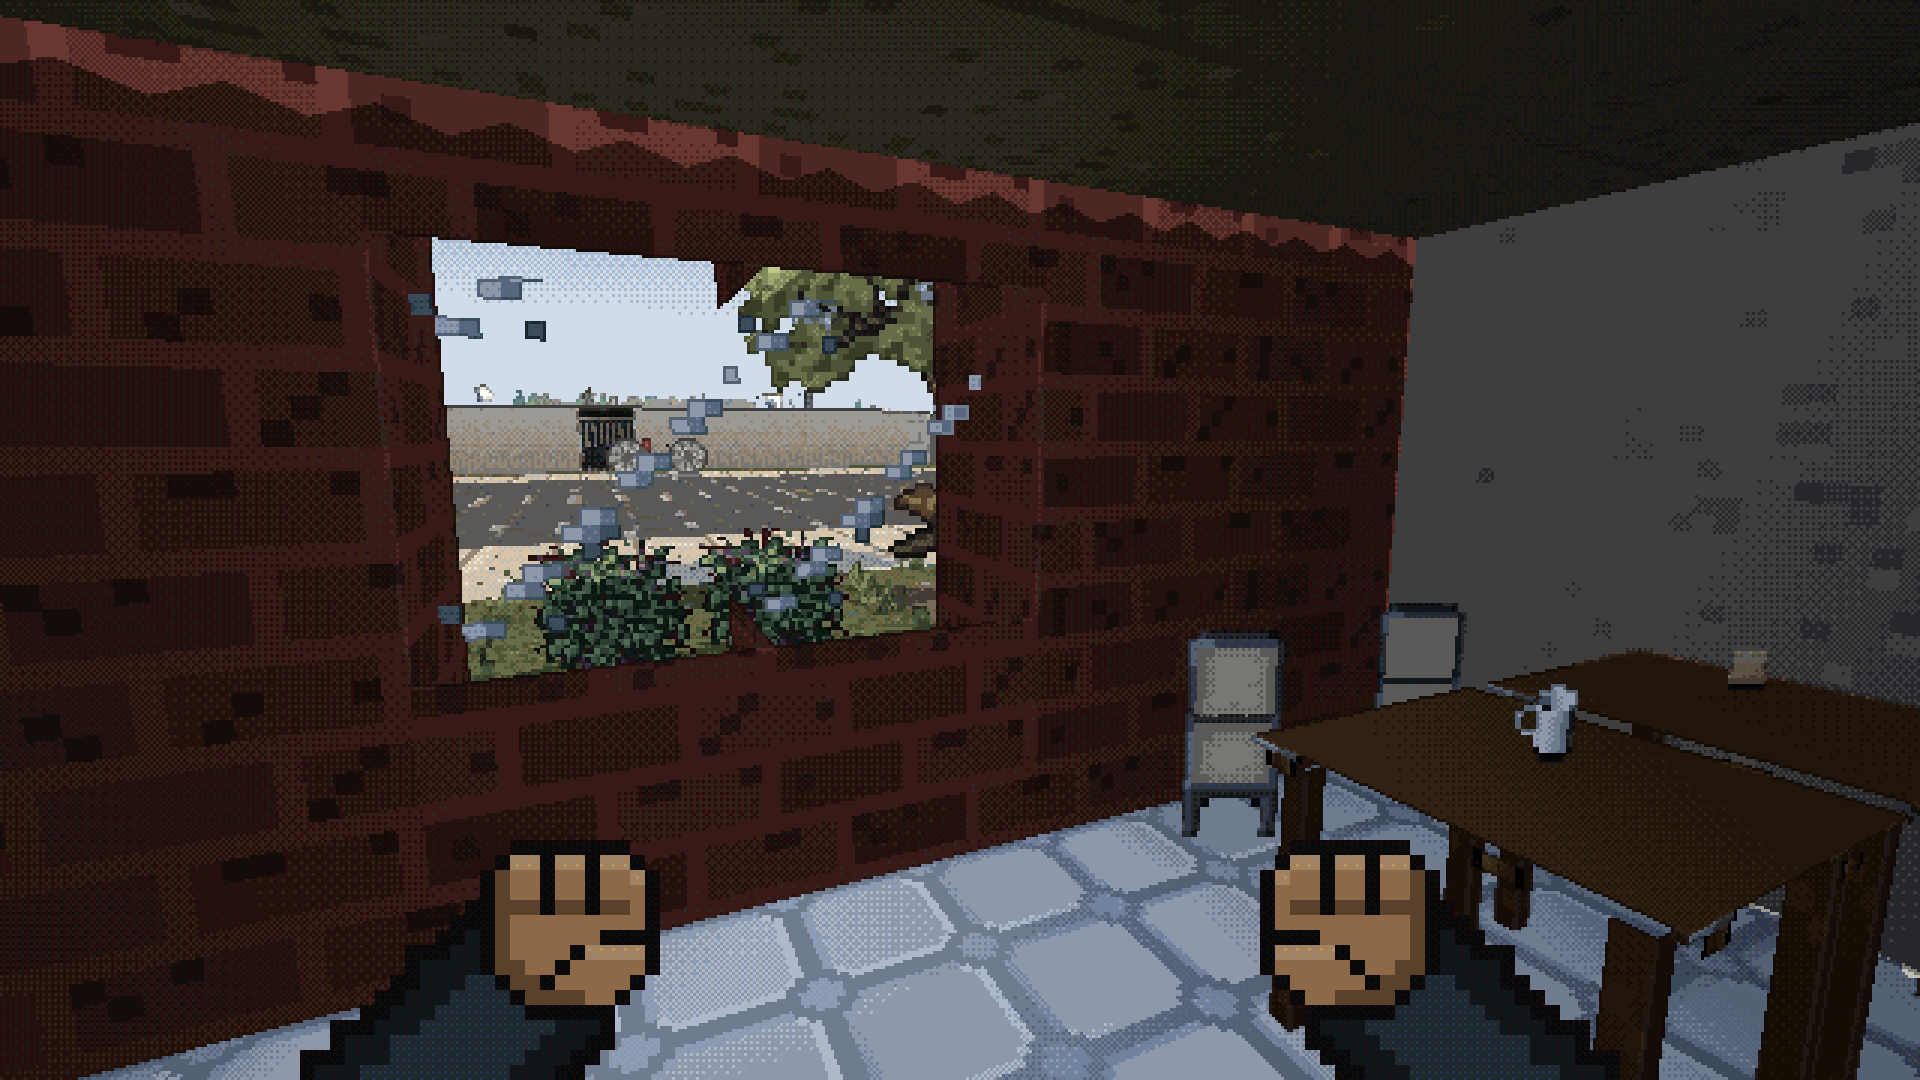
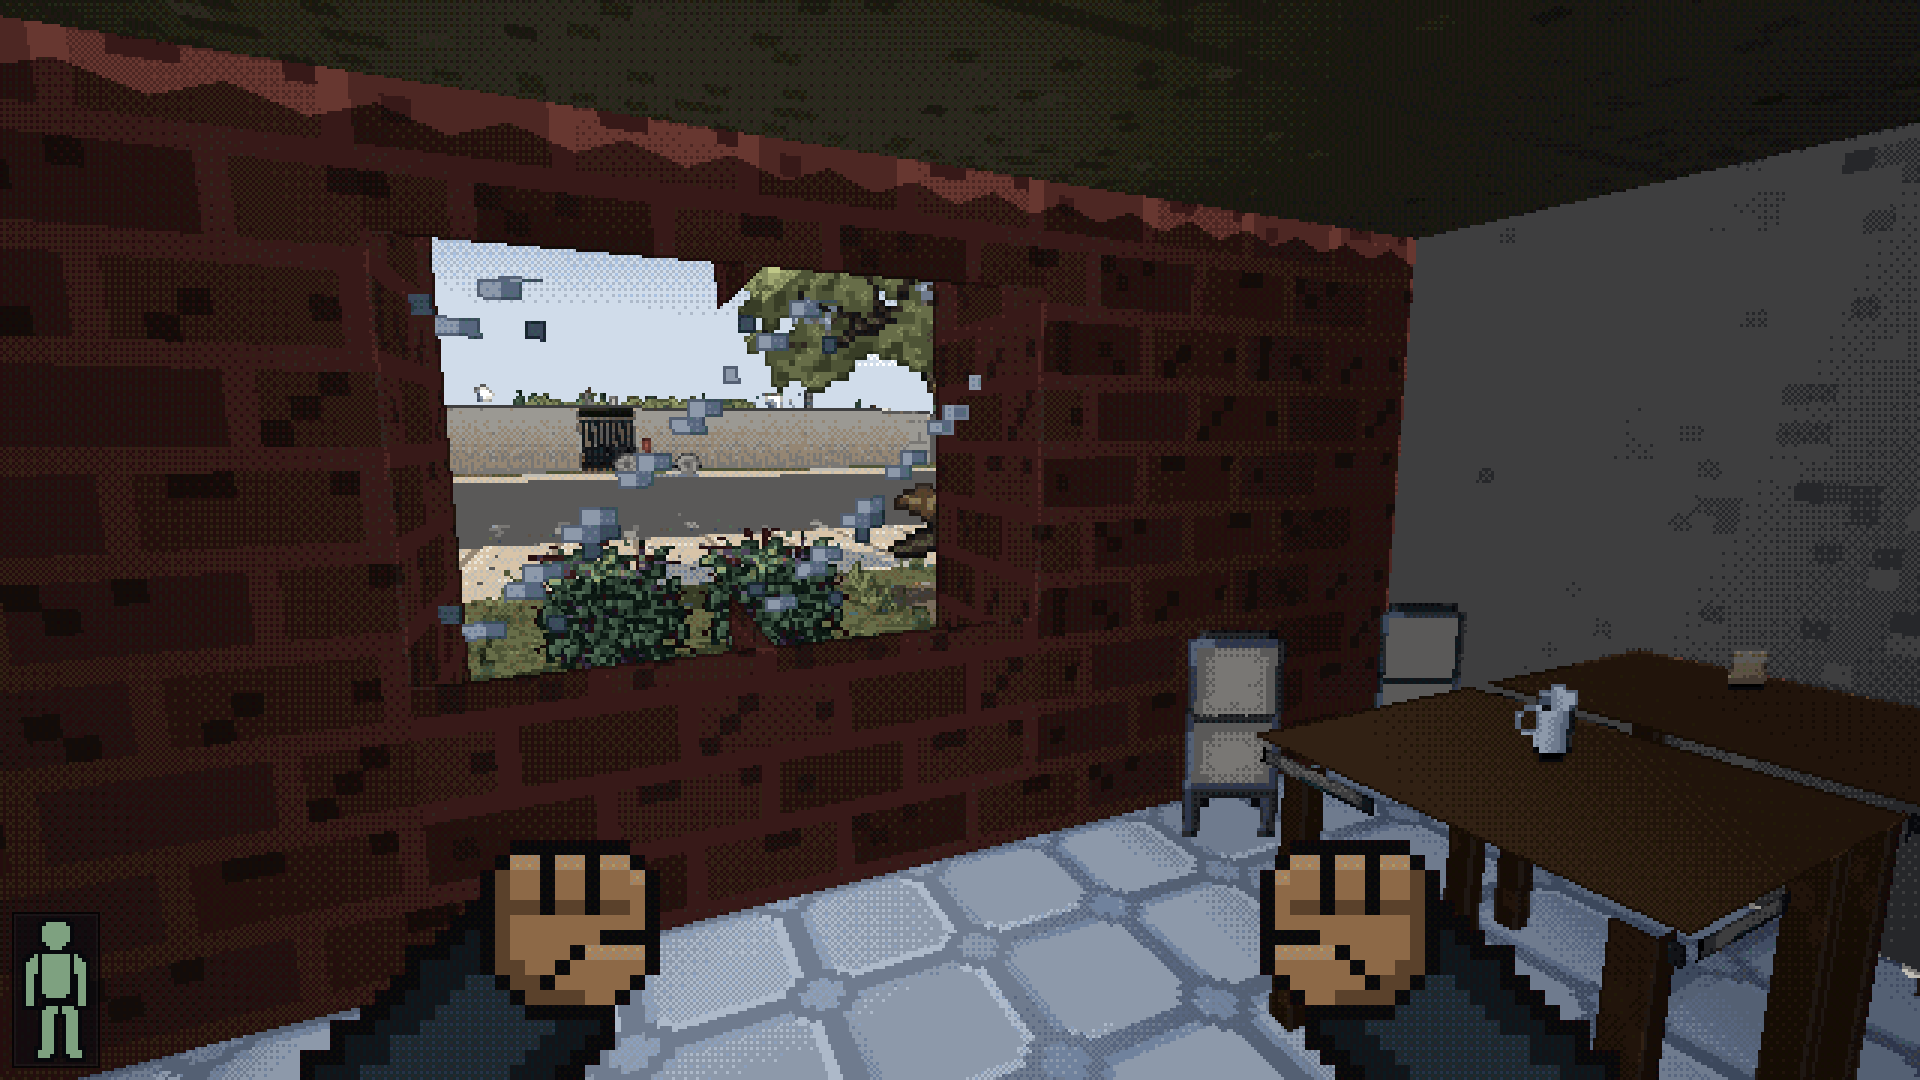
Readability: docs (READABILITY.md, LOOKS.md), before/after shots, regenerated look shots

diff --git a/src/render/atmosphere.ts b/src/render/atmosphere.ts
@@ -5,9 +5,10 @@
 // into grey haze and the far end of a street was unreadable. The presets here keep a depth
 // cue but put the contrast back:
 //
-//   clear   (default) light, sky-coloured aerial perspective; the draw-distance edge fades
-//           into the exact sky colour behind it over the last ~20% of the range, so
-//           silhouettes stay crisp until the very end and there is no fog wall
+//   clear   (default) light, sky-coloured aerial perspective; from 60% of the draw distance
+//           things fade only partly (25%) toward the exact sky colour behind them, then the
+//           far ground ring and skyline (skyline.ts) carry the fade on to the horizon, so
+//           silhouettes stay crisp and there is no fog wall (docs/READABILITY.md)
 //   light   more haze (planes of depth separate more), still sky-coloured and no wall
 //   legacy  the v2 behaviour (grey fog from 35% of the range + heavy haze), for comparison
 //

diff --git a/docs/READABILITY.md b/docs/READABILITY.md
@@ -1,0 +1,105 @@
+# Distance readability (wave 3)
+
+Feedback: "many of [the looks] are too hard to actually see far distance". In
+`docs/screenshots/looks/full_street.png` (v2) everything past ~30 m dissolved into pale haze, the
+sky around the sun was washed out and the far end of the street was unreadable.
+
+## What was killing distance, per look
+
+| cause | looks | fix |
+| --- | --- | --- |
+| Fog of war started at **35 %** of the draw distance (42 m) and was opaque grey at 120 m, fading into a fog colour that did not match the sky behind it (a grey wall in front of a blue or orange horizon) | all | sky-matched fade (below), starting at 60 % and only partial at the draw distance |
+| Aerial perspective mixed up to 45 % pale haze + 40 % desaturation within 60 m | crisp, full | capped (`hazeMax` 0.42 x look strength 0.6), longer e-fold (90 m), toward the sky colour along the view ray |
+| No ground beyond the drawn chunks: the world ended in a band of sky below the horizon | all | far ground ring from the overmap (`skyline.ts`), faded by its true distance |
+| Sun glow term applied at full strength at noon + a 2.0 HDR sun disc feeding bloom: a third of the sky washed to white-pink around the sun | all (bloom: crisp, full) | glow only strong when the sun is low; disc 1.6 (small halo) |
+| Rain fell from a clear blue sky with the sun blazing and hard shadows | all | overcast from the game weather (BN `light_modifier`, `sight_penalty`) |
+| Past the mip clamp (lod 3), distant roads/lawns were lod-3 texels aliasing into speckle | all | fade to the tile's average colour past lod 3 (`materials.ts` WORLD_MAP) |
+| Tree-crown sway of < 1 px at distance made far crowns flicker | voxel, full | sway fades out from 14 to 30 m |
+
+Monsters beyond the 60-tile reality bubble are dormant and **not drawn at all**
+(`monai.ts ACTIVE_RADIUS`); the far view spawns its test zombies at 15/28/42/58 m for that
+reason. Drawing dormant monsters as distant figures is the character agent's call.
+
+## The model (`src/render/atmosphere.ts`, `post.ts atmosphere()`)
+
+* **Aerial perspective**: `a = look.atmosphere * hazeMax * (1 - exp(-d / hazeDist))`, part
+  desaturation, then a mix toward `skyGradient(viewRay)` (the exact colour of the sky dome behind
+  the pixel, `sky.ts SKY_GRADIENT`, so warm toward a low sun, blue elsewhere). Capped, so a dark
+  shape on the road at 50 m keeps its contrast.
+* **Distance fade**: reaches `edgeLevel` (0.25) at the draw distance, then keeps going over the
+  far ground ring and skyline (true distance written to the normal target's red channel, since
+  the impostors are pulled in) to `farMax` (0.72) at `farSpan` metres beyond. The ground meets the
+  sky at the horizon instead of stopping at a wall. Pop-in at 130+ m is visible at ~25 % haze;
+  the ring underneath means a late chunk never shows a hole.
+* **Weather**: `applyWeatherSky` eases toward the game weather: overcast dims the sun (-72 %),
+  hides its disc, greys sky/fog/sun colour, darkens clouds; `sight_penalty` brings the haze
+  closer and denser (still capped below opaque). Forced weather (`cdda.setWeather`) switches at once.
+
+## Presets and switches
+
+| preset | what |
+| --- | --- |
+| `clear` (**default**) | light haze, fade from 60 % of the draw distance to 25 %, horizon 72 % sky |
+| `light` | more atmosphere (planes separate more), still no wall |
+| `legacy` | the v2 grey fog + heavy haze, for comparison |
+
+* **Options > Distance haze** (persisted), `?haze=clear|light|legacy`, `cdda.setHaze(name)`,
+  `cdda.hazeTweak({hazeMax: 0.3, edgeStart: 0.7, ...})` (fields in `HazeSettings`).
+* **Options > Draw distance**: 96 / 120 (default) / 168 m = chunk radius 5 / 6 / 8, persisted;
+  `?radius=` still overrides. Radius 8 measured +65 % chunks (548 -> 900), +80-170 MB heap,
+  +0.5-0.8 ms render at 1080p, so it stays opt-in; the far ground ring and skyline make 6 read well.
+* The look's own `atmosphere` still scales the aerial part (classic has none), so the five looks
+  keep their character; the sky-matched fade, far ground, weather and sky fixes apply to all.
+
+## Pixel stabilisation
+
+Already in place before this wave: first-person/cockpit rotation snapped to whole pixel-angles,
+view-anchored ordered dither, top-down camera snapped to the low-res grid with a sub-pixel blit
+offset, texel-snapped sun shadow camera (`cdda.shimmerTest` measures pans). What translation
+(walking) can't get from snapping, this wave reduces at the source: far tiles average instead of
+aliasing, no sub-pixel sway on far crowns. `cdda.flickerTest(frames, step, y0, y1, map, dt)` counts
+A->B->A pixels while stepping forward (map=true returns a heat map PNG). Caveat: nearest-sampled
+pixel art alternates texel colours, so that metric also counts legitimate texel crossings; it
+stayed ~flat (full far 0.016 before and after) and is only good for spotting hot spots (the heat
+maps show foliage and grass dominate, not the far distance). Temporal reprojection was not tried:
+it would smear the pixel art.
+
+## Screenshots (before | after, 1080p, RTX 5080, seed 1)
+
+`tools/look-views.js` gained `far` (straight road, zombies at 15-58 m), `fardusk`, `farrain`,
+`dusk` (street a quarter hour before the real sunset) and `rain`.
+
+| | |
+| --- | --- |
+| ![](screenshots/wave3/readability/full_far.png) | ![](screenshots/wave3/readability/full_street.png) |
+| ![](screenshots/wave3/readability/classic_far.png) | ![](screenshots/wave3/readability/classic_street.png) |
+| ![](screenshots/wave3/readability/crisp_far.png) | ![](screenshots/wave3/readability/crisp_street.png) |
+| ![](screenshots/wave3/readability/voxel_far.png) | ![](screenshots/wave3/readability/voxel_street.png) |
+| ![](screenshots/wave3/readability/terrain_far.png) | ![](screenshots/wave3/readability/terrain_street.png) |
+| ![](screenshots/wave3/readability/full_dusk.png) | ![](screenshots/wave3/readability/full_rain.png) |
+| ![](screenshots/wave3/readability/full_night.png) | ![](screenshots/wave3/readability/full_forest.png) |
+
+## Performance (RTX 5080, `look-shots --bench`, shared machine: +-15 % noise)
+
+`render` = renderer-only ms/frame (`cdda.benchRender`), before -> after:
+
+| look | 1080p street | 1080p far | 3440x1304 street | 3440x1304 far |
+| --- | --- | --- | --- | --- |
+| classic | 1.6 -> 1.3 | 1.3 -> 1.6 | 2.1 -> 1.9 | 1.7 -> 1.7 |
+| crisp | 1.7 -> 1.8 | 1.4 -> 1.2 | | |
+| voxel | 1.0 -> 1.7 | 1.9 -> 1.7 | | |
+| terrain | 1.9 -> 1.6 | 1.4 -> 3.2* | | |
+| full | 1.9 -> 1.7 | 1.9 -> 1.7 | 4.7 -> 3.4 | 2.1 -> 2.1 |
+
+\* single-run outliers in both directions; the shadow map updates at a fixed rate, so a bench
+window that includes a shadow pass reads higher. The additions are one sky-gradient evaluation
+per post pixel, ~2.5k ground-ring triangles and four texture taps on far world pixels: no
+measurable cost.
+
+## Known gaps
+
+* Dormant monsters past 60 tiles are invisible (see above).
+* The ground ring is one flat colour per OMT (roads as strips); up close to the draw edge on a
+  hill it can sit visibly below real ground by 0.6 m.
+* Clouds stay soft blurred blobs in the smooth grade; rain clouds are darker but not a flat deck.
+* Walking shimmer on near foliage/grass (alpha-tested point-sampled cutouts) is untouched.

diff --git a/docs/LOOKS.md b/docs/LOOKS.md
@@ -16,6 +16,13 @@ Switch with **Options > Visual style** (persisted), `?look=<name>`, or `cdda.set
 (live). Individual features: `cdda.lookTweak({ssao: 0, grass: false})` (names in
 `src/render/look.ts`). The palette look stays one Options entry away (Colour grading).
 
+**Distance readability (wave 3)**, applies to every look: a sky-matched distance fade instead of
+the grey fog wall, a far ground ring to the horizon, lighter aerial perspective, overcast weather,
+no washed-out sky around the sun. **Options > Distance haze** (`clear` default / `light` /
+`legacy` = the old fog; `?haze=`, `cdda.setHaze`, `cdda.hazeTweak`) and **Options > Draw
+distance** (96 / 120 / 168 m). Details, before/after shots and perf: [READABILITY.md](READABILITY.md).
+The shots below were regenerated with it.
+
 ## Comparison (1920x1080, RTX 5080)
 
 Columns: classic, crisp, voxel, terrain, full. Regenerate with
